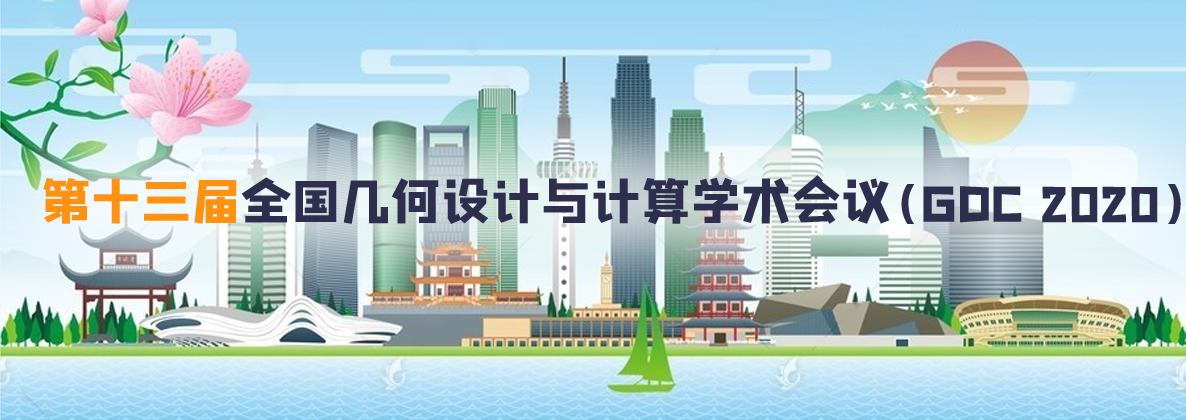
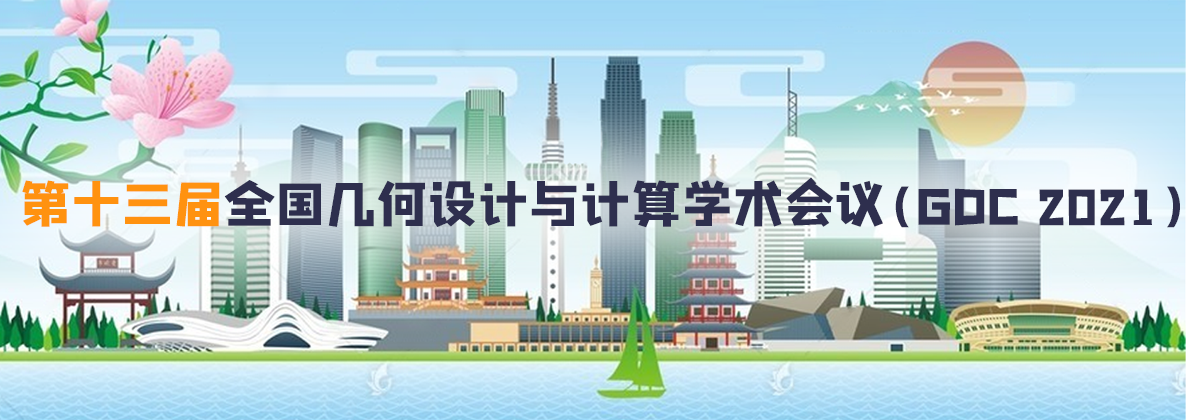
modified date

diff --git a/index.html b/index.html
@@ -35,20 +35,20 @@
 				<div class = 'briefIntr' id="briefIntr">
 					<!--<span>&nbsp;&nbsp;&nbsp;&nbsp;&nbsp;&nbsp;&nbsp;&nbsp;&nbsp;年份:2020  <span class="briefIntr-span">DOI:CNKI:SUN:JSJA.0.2017-01-001</span></span>-->
 				    <div>&nbsp;&nbsp;&nbsp;&nbsp;&nbsp;&nbsp;&nbsp;由中国工业与应用数学学会(CSIAM)几何设计与计算专委会主办、国防科技大学承办的第十三届全国几何设计与计算学术会议
-(GDC 2020)将于2020年7月3日-5日在湖南长沙举行。会议将邀请本领域多位著名专家学者作大会报告,并评选
+(GDC 2021)将于2021年7月3日-5日在湖南长沙举行。会议将邀请本领域多位著名专家学者作大会报告,并评选
 和颁发中国几何设计与计算"贡献奖(待定)"和"青年学者奖(待定)"以及"优秀学生论文奖"。本届会议前一天将举办面向研究生和青年教师
 的会前专题课程,会议期间将举办多个专题研讨会和专家论坛,围绕本领域当前研究热点,邀请专家学者或杰出博士针对学科发展现状和发展趋势展开深入讨论。欢迎从事计算机辅助设计、计算机图形学、计算几何、计算机视觉、图像处理等相关领域研究的专家学者、青年学生以及工业界的专家、专业技术人员积极参与
 本次会议并踊跃投稿，展示最新成果，研讨热点问题，展望学科前景。</div>
 				</div>
-				<div class = 'timeLine' id = "notice">
+				<!-- <div class = 'timeLine' id = "notice">
 					<div class='notice'>重要公告</div>
 					<div>&nbsp;&nbsp;&nbsp;&nbsp;&nbsp;&nbsp;&nbsp;受疫情影响，国家科技部及中国工业与应用数学学会于三月初发出了“暂停一切线下学术活动”的通知。鉴于目前疫情形势，原计划定于七月份的GDC会议的线下召开具有较大的不确定性。为响应国家抗疫精神，确保参会人员的健康安全，经几何设计与计算专委会研究决定，
 						推迟本年度的GDC会议至明年举行，举办方和举办地不变，具体时间另行通知。对于已提交稿件的作者，已通过邮件通知，并根据自愿推荐其稿件至《图学学报》（加急评审）。为此给广大同仁带来的不便，敬请谅解。
 					</div>
-				</div>
+				</div> -->
 				<div class = 'timeLine' id = "timeLine">
 					<img src="img/重要日期.png" style="margin-left: 30px;"/>
-					<div class = 'timeLine-center'><div>2020</div></div>
+					<div class = 'timeLine-center'><div>2021</div></div>
 					<div class="cx-time-main" id="cxTime"></div>
 					<div class = 'jaintou'><div ></div></div>
 					
@@ -115,8 +115,8 @@
 					<div class = 'gongtongzhuxi-bg'></div>
 				</div> -->
 				<div class = 'dahui' style="width: 150px"><img src="img/论文投稿与出版.png" style="margin-left: 30px;"/></div>
-				<div class="wz" style="font-size: 15px;font-weight: bold;">会议投稿系统   <span><a href="http://www.smartchair.org/GDC2020">http://www.smartchair.org/GDC2020</a></span></div>
-				<div style="margin-left:30px;margin-right:30px;">&nbsp;&nbsp;&nbsp;&nbsp;&nbsp;&nbsp;论文推荐：GDC2020接收未公开发表过或未在投稿中的中文和英文稿件，格式为PDF或WORD，页数不限。每篇投稿论文
+				<div class="wz" style="font-size: 15px;font-weight: bold;">会议投稿系统   <span><a href="http://www.smartchair.org/GDC2020">http://www.smartchair.org/GDC2021</a></span></div>
+				<div style="margin-left:30px;margin-right:30px;">&nbsp;&nbsp;&nbsp;&nbsp;&nbsp;&nbsp;论文推荐：GDC2021接收未公开发表过或未在投稿中的中文和英文稿件，格式为PDF或WORD，页数不限。每篇投稿论文
 经三名领域专家的匿名评审，录用的论文经修改后，由大会推荐至国际学术期刊《Communications in Mathematics and 
 Statistics》(SCI)、《Applied Mathematics-A Journal of Chinese Universities(Series B)》(SCI)
 和国内学术期刊《计算机辅助设计与图形学学报》、《计算机工程与科学》、
@@ -384,11 +384,11 @@ Statistics》(SCI)、《Applied Mathematics-A Journal of Chinese Universities(Se
 
 
 		var timeList = [
-			{timeKeyNumber:'31',timeKey:'三月',time:'<span style="font-size:14px;font-weight:bold;">2020年3月31号</span>',name:'<span style="font-size:14px;font-weight:bold;">征稿截止</span>'},   //,time:'我是小标题我是小标题',value:'我是小标题我是小标题'
-			{timeKeyNumber:'20',timeKey:'五月',name:'<span style="font-size:14px;font-weight:bold;">录用通知日期</span>',time:'<span style="font-size:14px;font-weight:bold;">2020年5月20日</span>'},
-			{timeKeyNumber:'15',timeKey:'六月',name:'<span style="font-size:14px;font-weight:bold;">提交最终版本论文日期</span>',time:'<span style="font-size:14px;font-weight:bold;">2020年6月15日</span>'},
-			{timeKeyNumber:'10',timeKey:'六月',name:'<span style="font-size:14px;font-weight:bold;">会议注册开放日期</span>',time:'<span style="font-size:14px;font-weight:bold;">2020年6月10日</span>'},
-			{timeKeyNumber:'3-5',timeKey:'七月',name:'<span style="font-size:14px;font-weight:bold;">会议召开日期</span>',time:'<span style="font-size:14px;font-weight:bold;">2020年7月3 - 5日</span>'}
+			{timeKeyNumber:'20',timeKey:'三月',time:'<span style="font-size:14px;font-weight:bold;">2021年3月20号</span>',name:'<span style="font-size:14px;font-weight:bold;">征稿截止</span>'},   //,time:'我是小标题我是小标题',value:'我是小标题我是小标题'
+			{timeKeyNumber:'10',timeKey:'五月',name:'<span style="font-size:14px;font-weight:bold;">录用通知日期</span>',time:'<span style="font-size:14px;font-weight:bold;">2021年5月10日</span>'},
+			{timeKeyNumber:'15',timeKey:'六月',name:'<span style="font-size:14px;font-weight:bold;">提交最终版本论文日期</span>',time:'<span style="font-size:14px;font-weight:bold;">2021年6月15日</span>'},
+			{timeKeyNumber:'10',timeKey:'六月',name:'<span style="font-size:14px;font-weight:bold;">会议注册开放日期</span>',time:'<span style="font-size:14px;font-weight:bold;">2021年6月10日</span>'},
+			{timeKeyNumber:'16-18',timeKey:'七月',name:'<span style="font-size:14px;font-weight:bold;">会议召开日期</span>',time:'<span style="font-size:14px;font-weight:bold;">2021年7月16 - 18日</span>'}
 		];
 		var param = {
 			data: timeList, // 数据
